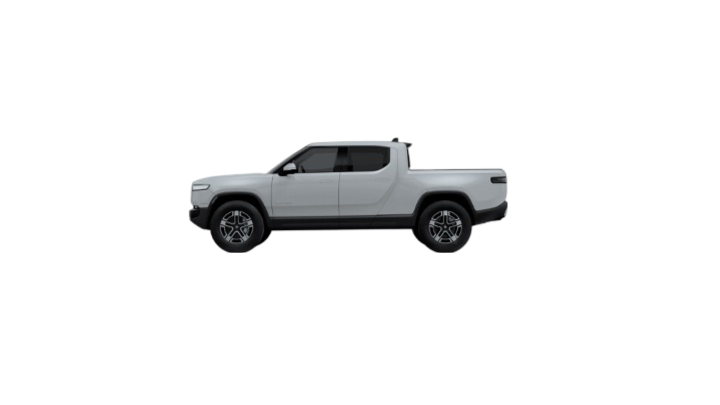
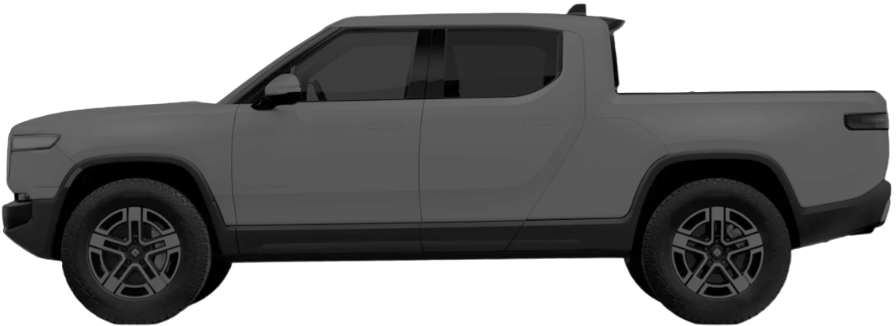
Co-authored-by: vinitgupta10 <vinitgupta10@users.noreply.github.com> Co-authored-by: David Mun <davidmun910@users.noreply.github.com> Co-authored-by: Sanil Chawla <schawla7@users.noreply.github.com> based line hill climber

diff --git a/src/MapClass.py b/src/MapClass.py
@@ -1,66 +1,98 @@
 import pygame
-
+import Macros
 class Platform:
     def __init__(self, screen, elevations, platform_width, platform_height):
         self.screen = screen
         self.elevations = elevations
         self.platform_width = platform_width
         self.platform_height = platform_height
-        self.segments = self._create_segments()
+
+        self.car_moved = False
+
+        self.update_elevations()
 
         self.scroll_offset = pygame.Vector2(0, 0)
 
-    def _create_segments(self):
-        # Create platform segments based on elevations
-        segments = []
-        for i, elevation in enumerate(self.elevations):
-            x = i * self.platform_width
-            y = self.screen.get_height() - elevation
-            segment = pygame.Vector2(x, y)
-            segments.append(segment)
-        return segments
+    def update_elevations(self):
+        # Create platform elevations based on elevations
+        for i in range(len(self.elevations)):
+            self.elevations[i] = self.screen.get_height() - self.elevations[i]
 
+    def update(self, car_x_pos, car_rect):
+        # print("Update")
+        car_x_pos = int(car_x_pos)
 
-    def draw(self, car_rect):
-        # Draw the platform segments
-        for i in range(len(self.segments) - 1):
-            start_pos = (self.segments[i].x - self.scroll_offset.x, self.segments[i].y + (self.scroll_offset.y if not self.check_collision(car_rect) else 0))
-            end_pos = (self.segments[i + 1].x - self.scroll_offset.x, self.segments[i + 1].y + (self.scroll_offset.y if not self.check_collision(car_rect) else 0))
+        if not self.check_collision(car_x_pos, car_rect):
+            for i in range(len(self.elevations)):            
+                self.elevations[i] -= (3)
+        if self.uphill(car_x_pos) and self.car_moved:
+            for i in range(len(self.elevations)):
+                self.elevations[i] += (1)
+    
+
+    def draw(self, car_x_pos):
+        car_x_pos = int(car_x_pos)
+        # Draw the platform elevations
+        for i in range(car_x_pos, car_x_pos + Macros.WINDOW_WIDTH):
+        # for i in range(len(self.elevations)):
+            if i > len(self.elevations) - 2:
+                start_pos = (i - car_x_pos, 0)
+                end_pos = (i + 1 - car_x_pos, 0)
+            else:
+                start_pos = (i - car_x_pos, self.elevations[i])
+                end_pos = (i + 1 - car_x_pos, self.elevations[i + 1])
+
+            color = (255, 0, 0) if (i - car_x_pos - 20 >= 0 and i - car_x_pos - 20 <= 128) else (0, 255, 0)
             pygame.draw.line(
                 self.screen,
-                (0, 255, 0),
+                color,
                 start_pos,
                 end_pos,
-                5  # Line thickness
+                8  # Line thickness
             )
 
-
-    def scroll(self, offset_x, offset_y):
+    def scroll(self, offset_x, offset_y, car_x_pos, car_rect):
         # Scroll the platform based on the car's movement
-        self.scroll_offset.x += offset_x
         self.scroll_offset.y += offset_y
+        self.update(car_x_pos, car_rect)
 
-    def check_collision(self, car_rect):
+    def get_slope(self, x):
+        # print(((self.elevations[x+128]) - (self.elevations[x])) / 128)
+        return ((self.elevations[x+128]) - (self.elevations[x])) / 128
+
+    def uphill(self, car_x_pos):
+        # print(self.elevations[car_x_pos + 128], self.elevations[car_x_pos])
+        return self.elevations[car_x_pos + 128] < (self.elevations[car_x_pos])
+
+    def check_collision(self, car_x_pos, car_rect):
+        car_x_pos = int(car_x_pos)
         # Check for collisions with the car
-        for i in range(len(self.segments) - 1):
-            start_pos = (self.segments[i].x - self.scroll_offset.x, self.segments[i].y)
-            end_pos = (self.segments[i + 1].x - self.scroll_offset.x, self.segments[i + 1].y)
-            if self._line_rect_collision(start_pos, end_pos, car_rect):
-                return True
-        return False
+        if car_x_pos < 0 or car_x_pos > len(self.elevations) - 2:
+            return False
 
-    def _line_rect_collision(self, line_start, line_end, rect):
+        start_pos = (car_x_pos, self.elevations[car_x_pos])
+        end_pos = (car_x_pos + 128, self.elevations[car_x_pos + 128])
+
+        # if (self.elevations[car_x_pos + 128] > self.elevations[car_x_pos]):
+        return car_rect.bottomright[1] >= self.elevations[car_x_pos + 128] or car_rect.bottomleft[1] >= self.elevations[car_x_pos]
+            # return car_rect.bottomright[1] > self.elevations[car_x_pos + 128]
+        # else:
+            # return car_rect.bottomleft[1] >= self.elevations[car_x_pos]
+
+        # return self._line_rect_collision(start_pos, end_pos, car_rect)
+
+    def _line_rect_collision(self, line_start, line_end, car_rect):
         # Check if a line segment intersects with a rectangle (car)
-        line_rect = pygame.Rect(min(line_start[0], line_end[0]), min(line_start[1], line_end[1]), abs(line_start[0] - line_end[0]), abs(line_start[1] - line_end[1]))
-        return rect.colliderect(line_rect)
+        line_rect = pygame.Rect(min(line_start[0], line_end[0]), min(line_start[1], line_end[1]), abs(line_end[0] - line_start[0]), abs(line_end[1] - line_start[1]))
+        return car_rect.colliderect(line_rect)
     
     def get_ground_y(self, x):
         # Get the y-coordinate of the ground at a specific x-coordinate
         adjusted_x = x + self.scroll_offset.x
-        for i in range(len(self.segments) - 1):
-            if self.segments[i].x <= adjusted_x <= self.segments[i + 1].x:
+        for i in range(len(self.elevations) - 1):
+            if i <= adjusted_x < i + 1:
                 # Interpolate the y value
-                x1, y1 = self.segments[i]
-                x2, y2 = self.segments[i + 1]
+                x1, y1 = self.elevations[i]
+                x2, y2 = self.elevations[i + 1]
                 return y1 + (y2 - y1) * (adjusted_x - x1) / (x2 - x1)
-        return self.segments[-1][1]  # If x is beyond the platform, return the last segment's y
+        return self.elevations[-1]  # If x is beyond the platform, return the last segment's y

diff --git a/src/game.py b/src/game.py
@@ -1,38 +1,37 @@
 import pygame
 import sys
+import Macros # game macros
 from CarClass import Car
 from MapClass import Platform
-
-# Game window macros
-WINDOW_WIDTH = 800
-WINDOW_HEIGHT = 600
-FONT_NAME = "Open Sans"
-FONT_SIZE_L = 32
-FONT_SIZE_M = 24
-FONT_SIZE_S = 16
-GRAVITY = -1
+from GameMenu import GameMenu
+import math
 
 # Initialize Pygame
 pygame.init()
 
 # Game Font
-game_font = pygame.font.SysFont(FONT_NAME, FONT_SIZE_L)
+game_font = pygame.font.SysFont(Macros.FONT_NAME, Macros.FONT_SIZE_L)
 
 # Add clock
 clock = pygame.time.Clock()
 
 # Set up the screen
-screen = pygame.display.set_mode((WINDOW_WIDTH, WINDOW_HEIGHT))
+screen = pygame.display.set_mode((Macros.WINDOW_WIDTH, Macros.WINDOW_HEIGHT))
 
 # TODO: change the name later
-pygame.display.set_caption("Rivian Hill Climber")
+pygame.display.set_caption("PRANAV SWAMINATHAN Hill Climber")
 
 # Platform dimensions
 platform_width = 10
 platform_height = 20
 
 # Elevation data (example)
-elevations = [100, 102, 103, 102, 101, 100] * 20
+# elevations = [100] * 1000
+# elevations = ([y for x in range(100, 20, -2) for y in (x//2, x//2, x//2, x//2, x//2, x//2, x//2, x//2, x//2)] + [y for x in range(20, 100, 2) for y in (x//2, x//2, x//2, x//2, x//2, x//2, x//2, x//2, x//2)]) * 50
+elevations = (
+    [y for x in range(100, -40, -1) for y in (x//2,) * 5] +
+    [y for x in range(-40, 100, 1) for y in (x//2,) * 5]
+) * 50
 
 # Create the platform
 platform = Platform(screen, elevations, platform_width, platform_height)
@@ -40,56 +39,60 @@ offset_x = 0
 offset_y = 0
 
 # Game Car Character
-car = Car('../assets/White_R1T.png', 50, 100, 100, x=WINDOW_WIDTH / 2, y=WINDOW_HEIGHT / 2, width=1280/10, height=960/10)
+car = Car('/Users/dongmingsbrick/Desktop/UIRP-Rivian-R1-Hackathon/assets/R1T_GREY.png', 50, 20, 100, x=84, y=Macros.WINDOW_HEIGHT / 2, width=1280/10, height=960/10)
 
 text = game_font.render('Press Enter to start', True, (255, 255, 255))
 
 # Game menu:
+game_menu = GameMenu(screen, Macros.FONT_NAME, options=['Start'])
+
 game_start = False
-while not game_start:
-    for event in pygame.event.get():
-        if event.type == pygame.QUIT:
-            pygame.quit()
-            sys.exit()
-        elif event.type == pygame.KEYDOWN:
-            if event.key == pygame.K_RETURN:  # Start the game
-                game_start = True
-                break
-
-    # Draw the text
-    screen.blit(text, (WINDOW_WIDTH / 2 - text.get_width() / 2, WINDOW_HEIGHT / 2 - text.get_height() / 2))
-
-    # Update the display
-    pygame.display.flip()   
-
+if game_menu.run() != Macros.GameMenuCode.MENU_EXIT_OK:
+    print("Game menu exited with an error.")
+    exit(1)
+game_start = True 
+# game_start = False
 # Game loop
-while True:
+while game_start:
     for event in pygame.event.get():
         if event.type == pygame.QUIT:
             pygame.quit()
-            sys.exit()
+            # sys.exit()
 
     # Get the state of the keyboard
     keys = pygame.key.get_pressed()
 
     # Update the car's position and velocity
-    dt = clock.get_time() / 1000  # Convert milliseconds to seconds
+    dt = clock.get_time() / 100
         
     # Scroll the platform based on the car's horizontal movement
     offset_x = 0
-    offset_y += GRAVITY * dt
+    offset_y = 1
     if keys[pygame.K_d] or keys[pygame.K_RIGHT]:
-        offset_x += car.acc * dt if car.acc * dt < car.maxVelo else car.maxVelo
+        offset_x += math.ceil(car.acc * dt if car.acc * dt < car.maxVelo else car.maxVelo)
     elif keys[pygame.K_a] or keys[pygame.K_LEFT]:
-        offset_x -= car.acc * dt if car.acc * dt < car.maxVelo else car.maxVelo
+        offset_x -= math.ceil(car.acc * dt if car.acc * dt < car.maxVelo else car.maxVelo)
+    
+    if offset_x != 0:
+        platform.car_moved = True
+    else:
+        platform.car_moved = False
 
+    # print(offset_x)
+    if keys[pygame.K_ESCAPE]: # end game and quick
+        game_start = False
+        break
+        
     # Update the platform position with gravity
     screen.fill((136, 206, 235))
 
-    platform.scroll(offset_x, offset_y)
-    platform.draw(car.rect)
+    platform.scroll(offset_x, offset_y, car.x_pos, car.rect)
+    car.update(offset_x, platform)
+    platform.draw(car.x_pos)
     car.draw(screen)
     pygame.display.flip()
 
     # Cap the frame rate
-    clock.tick(60)
+    clock.tick(600)
+
+

diff --git a/src/GameMenu.py b/src/GameMenu.py
@@ -1,21 +1,23 @@
 import pygame
 import sys
+import Macros
+from typing import Dict, Any
 
 class GameMenu:
-    def __init__(self, screen, items):
+    def __init__(self, screen, game_font="Open Sans", font_color=(255, 255, 255), **kwargs: Dict[str, Any]):
         self.screen = screen
-        self.items = items
-        self.font = pygame.font.Font(None, 36)
+        self.font = pygame.font.SysFont(game_font, 36)
+        self.font_color = font_color
 
-    def display(self):
-        for index, item in enumerate(self.items):
-            text = self.font.render(item, True, (255, 255, 255))
-            self.screen.blit(text, (100, 100 + index * 60))
+    def run(self, object_dict: Dict[str, Any] = {}):
+        """
+        object_dict: output dictionary of object and information will be used in game,
+                     the default value is for debugging purposes
+        """
+        begin_text = self.font.render('Press Enter to start', True, self.font_color)
 
-    def run(self):
         while True:
-            self.screen.fill((0, 0, 0))
-            self.display()
+            self.screen.fill((0, 0, 0)) # background color
 
             for event in pygame.event.get():
                 if event.type == pygame.QUIT:
@@ -23,6 +25,7 @@ class GameMenu:
                     sys.exit()
                 elif event.type == pygame.KEYDOWN:
                     if event.key == pygame.K_RETURN:  # Start the game
-                        return
-
+                        return Macros.GameMenuCode.MENU_EXIT_OK
+            
+            self.screen.blit(begin_text, (Macros.WINDOW_WIDTH / 2 - begin_text.get_width() / 2, Macros.WINDOW_HEIGHT / 2 - begin_text.get_height() / 2))
             pygame.display.flip()

diff --git a/src/CarClass.py b/src/CarClass.py
@@ -1,29 +1,31 @@
 import pygame
-
+import math
 class Car:
     def __init__(self, model_path, acc, maxVelo, mileage=100, x=0, y=0, width=50, height=30):
         self.model = pygame.image.load(model_path)
         self.model = pygame.transform.scale(self.model, (width, height))
         self.model = pygame.transform.flip(self.model, True, False)
+        self.original_model = self.model
         self.rect = self.model.get_rect(center=(x, y))
         self.acc = acc
         self.maxVelo = maxVelo
         self.mileage = mileage
+        self.x_pos = 84
+        
+        self.angle = 0
+        self.rotate_true = False
+        self.slope = 0
+
+    def update(self, offset_x, platform):
+        self.x_pos += offset_x
+
+        slope = platform.get_slope(self.x_pos)
+        self.rotate_true = True if slope != self.slope else False
+        self.angle = math.atan(slope)
+        self.slope = slope
+
 
     def draw(self, screen):
+
+        self.model = pygame.transform.rotate(self.original_model, -math.degrees(self.angle)) if self.rotate_true else self.model
         screen.blit(self.model, self.rect.topleft)
-
-    # Setters
-    def setAcc(self, newAcc):
-        self.acc = newAcc
-    
-    def setMaxVelo(self, newMaxVelo):
-        self.maxVelo = newMaxVelo
-
-    def setModel(self, model_path):
-        self.model = pygame.image.load(model_path)
-        self.model = pygame.transform.scale(self.model, (width, height))
-        self.model = pygame.transform.flip(self.model, True, False)
-
-    def setMileage(self, newMileage):
-        self.mileage = newMileage

diff --git a/src/Macros.py b/src/Macros.py
@@ -1,0 +1,16 @@
+from enum import Enum
+
+WINDOW_WIDTH = 800
+WINDOW_HEIGHT = 600
+FONT_NAME = "Open Sans"
+FONT_SIZE_L = 32
+FONT_SIZE_M = 24
+FONT_SIZE_S = 16
+GRAVITY = 1
+TERMINAL_VELOCITY = 10
+
+NUM_PLATFORMS = 8000
+
+class GameMenuCode(Enum):
+    MENU_EXIT_OK = 0
+    MENU_ERROR = 1
